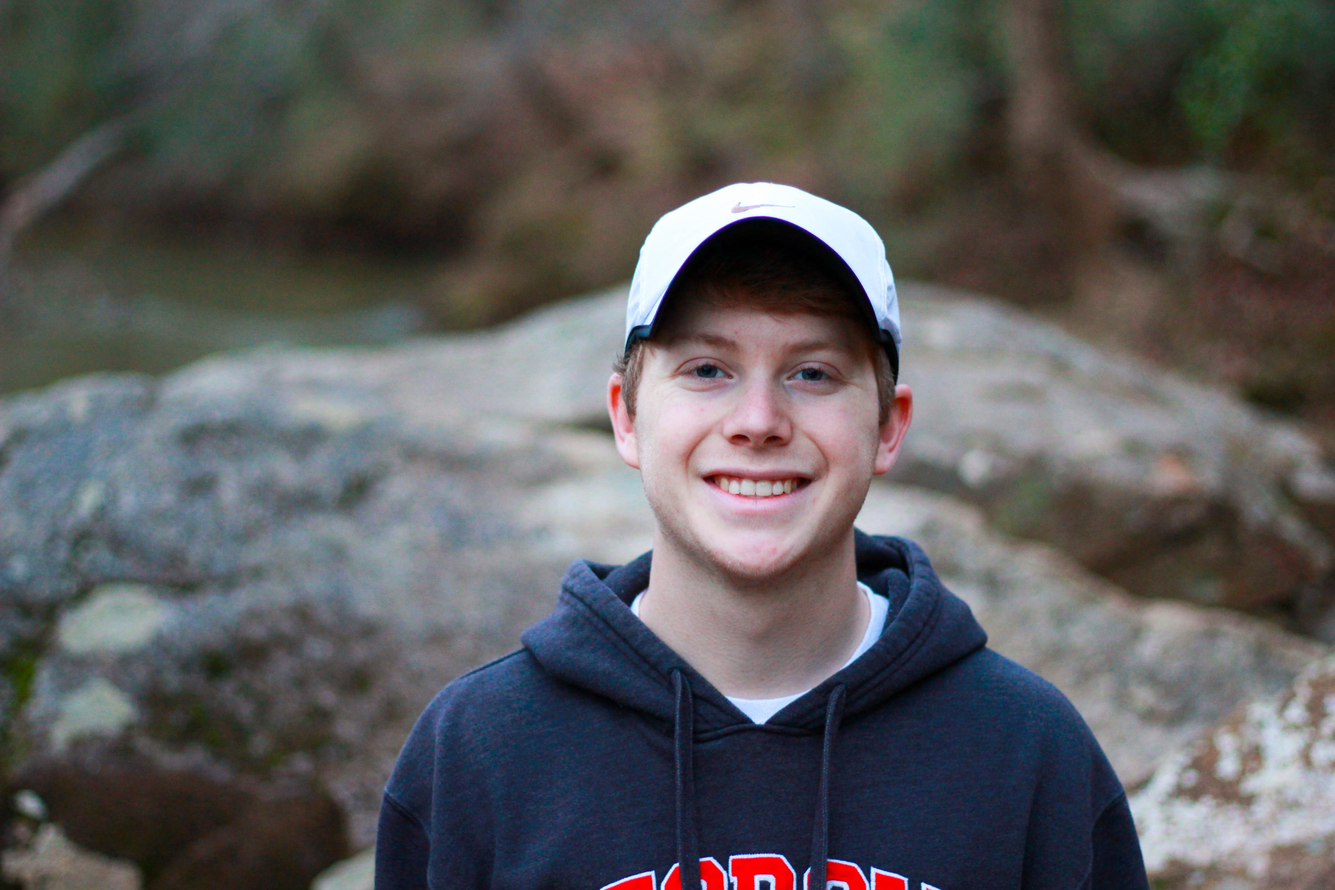
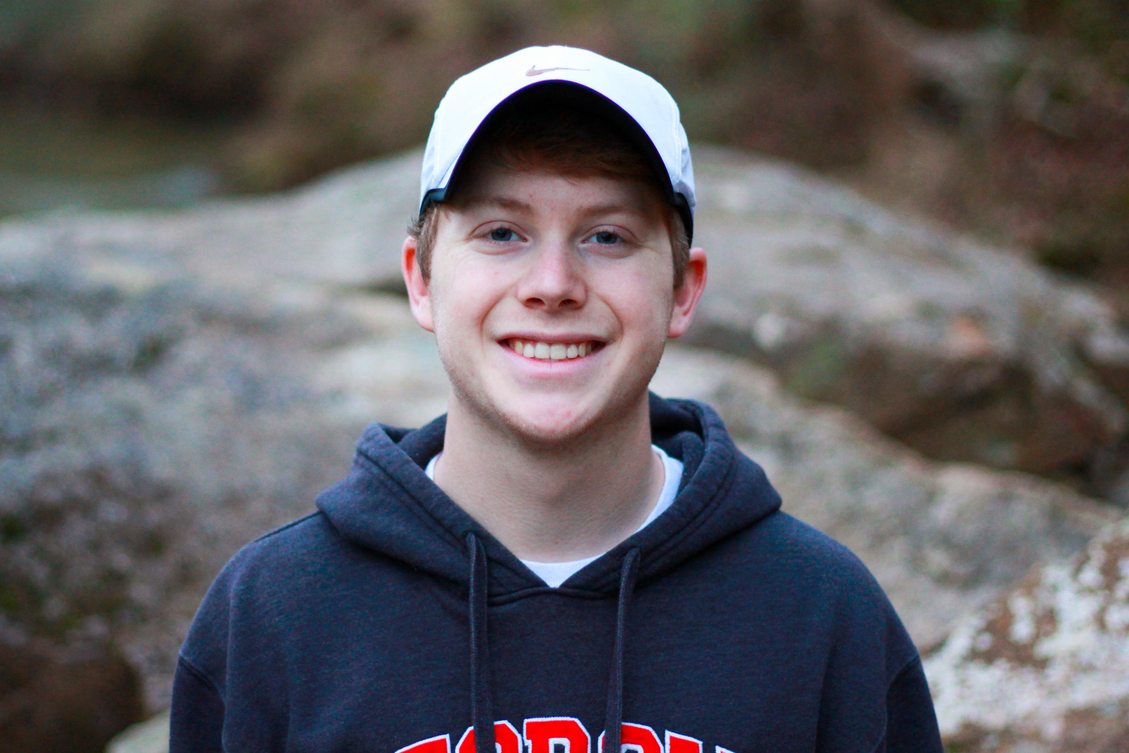
Fixing team circle thig

diff --git a/css/agency.css b/css/agency.css
@@ -577,7 +577,7 @@ header.masthead .intro-text .intro-heading {
 
 .team-member img {
   width: 225px;
-  height: 225px;
+  height: 170px;
   border: 7px solid #fff;
 }
 
